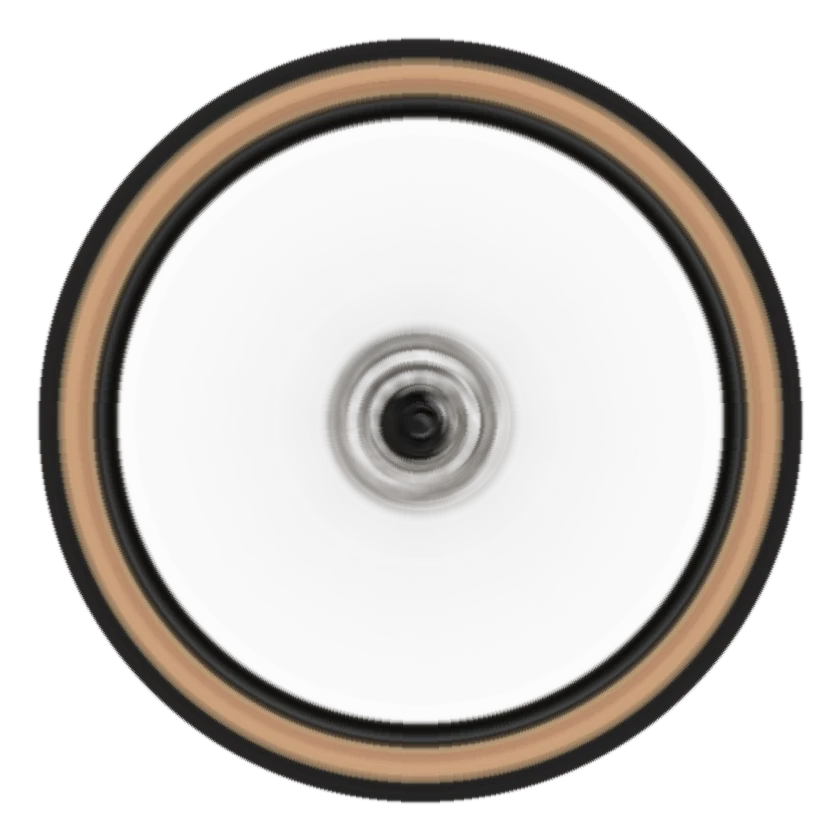
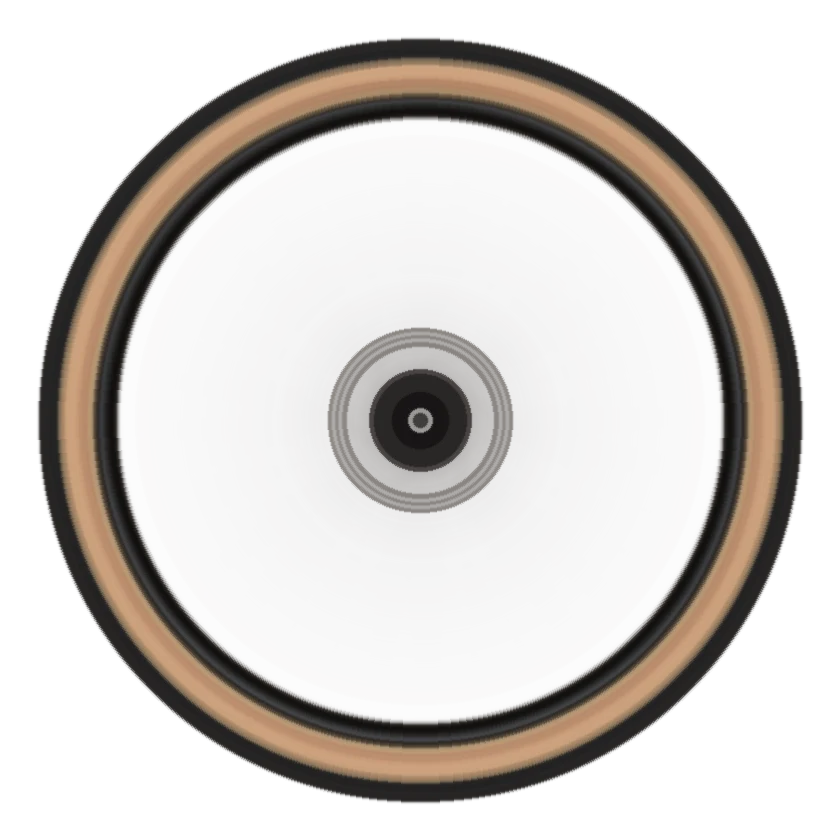
Cubo e disco de freio redondos, sem a peça do garfo girando junto

Changed region(s): [[0.3714, 0.3714, 0.619, 0.619]]

diff --git a/atual/index.html b/atual/index.html
@@ -63,9 +63,9 @@
     <div class="palco-area">
       <div class="palco" id="palco">
         <div class="sombra" aria-hidden="true"></div>
-        <div class="parte roda" id="p-rt"><img src="assets/cena/roda-tras.webp?v=3" alt="" class="g" width="840" height="840"><img src="assets/cena/roda-tras-giro.webp?v=3" alt="" class="g giro" width="840" height="840">
+        <div class="parte roda" id="p-rt"><img src="assets/cena/roda-tras.webp?v=4" alt="" class="g" width="840" height="840"><img src="assets/cena/roda-tras-giro.webp?v=4" alt="" class="g giro" width="840" height="840">
           <a class="rot rot-rt" href="https://6afee227e12ae1f82abc1a2f--impactobike.netlify.app/c/pecas/rodas-e-pneus/"><b>Rodas e pneus</b><span>137 produtos →</span></a></div>
-        <div class="parte roda" id="p-rf"><img src="assets/cena/roda-frente.webp?v=3" alt="" class="g" width="840" height="840"><img src="assets/cena/roda-frente-giro.webp?v=3" alt="" class="g giro" width="840" height="840">
+        <div class="parte roda" id="p-rf"><img src="assets/cena/roda-frente.webp?v=4" alt="" class="g" width="840" height="840"><img src="assets/cena/roda-frente-giro.webp?v=4" alt="" class="g giro" width="840" height="840">
           <a class="rot rot-rf" href="https://6afee227e12ae1f82abc1a2f--impactobike.netlify.app/c/pecas/freios/"><b>Freios e discos</b><span>165 produtos →</span></a></div>
         <div class="parte" id="p-qd"><img src="assets/cena/quadro.webp" alt="Bicicleta de carbono vinho com transmissão Shimano" width="1054" height="870">
           <a class="rot rot-qd1" href="https://6afee227e12ae1f82abc1a2f--impactobike.netlify.app/c/pecas/quadros-e-suspensoes/"><b>Quadros e suspensões</b><span>29 produtos →</span></a>
